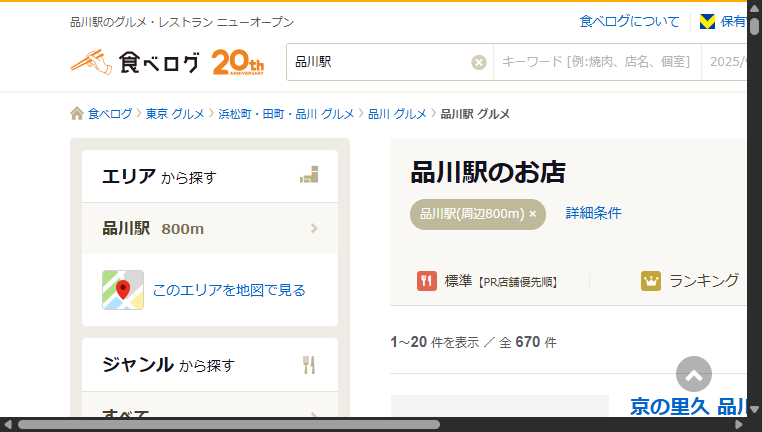
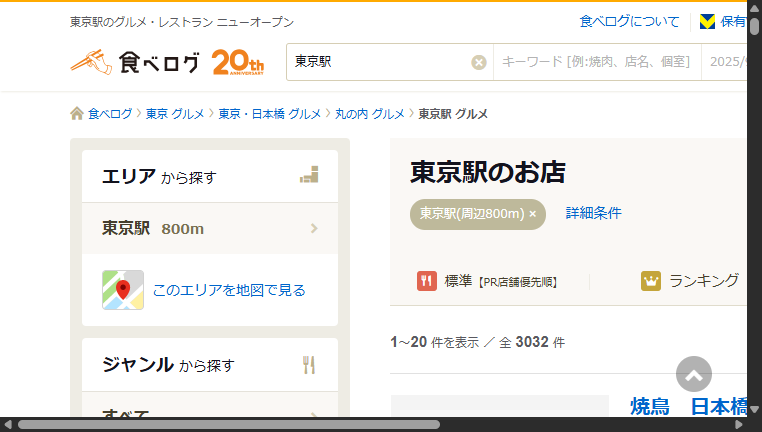
修正

diff --git a/tabelog/management/commands/scraping.py b/tabelog/management/commands/scraping.py
@@ -3,17 +3,16 @@ from selenium.webdriver.support.ui import WebDriverWait
 from selenium.webdriver.support import expected_conditions as EC
 from selenium import webdriver
 from selenium.webdriver.common.by import By
-#from getpass import getpass
-#from bs4 import BeautifulSoup
 import time
 import re
 from tabelog.models import Restaurant
-from datetime import datetime #日付上限を設定して新規店舗を抽出
+from datetime import datetime, timedelta #日付上限を設定して新規店舗を抽出
 
 class Command(BaseCommand):
     help = "食べログスクレイピング処理"
-    
-    def handle(self, *args, **options):
+
+
+    def get_new_shop_data(self, station_name):
         print("スクレイピング処理")
 
         # ヘッドレスモードで起動するためのオプションを設定
@@ -32,8 +31,9 @@ class Command(BaseCommand):
         # 最大30秒間、トップページが表示されるのを待つ
         wait = WebDriverWait(chrome_driver, 30)
 
-        # エリアを指定して入力する　※同じ駅名の場合どうすればよいか
-        station_name = input('駅名を入力してください：')
+        
+        # エリアを指定して入力する
+        # station_name = input('駅名を入力してください：')
         pernet_element = chrome_driver.find_element(By.CSS_SELECTOR, '#react-search-header > form > div.sc-fHSyak.sc-dubCtV.ljbUvS.hhzuBp')
         station_input = pernet_element.find_element(By.CLASS_NAME, 'sc-uhnfH.hGDSLA')
         station_input.send_keys(station_name)
@@ -56,12 +56,13 @@ class Command(BaseCommand):
         time.sleep(10)
         chrome_driver.save_screenshot('screenshot.png')
         
-        # 店舗リストを取得（上限日を指定）
-        restaurants = chrome_driver.find_elements(By.CSS_SELECTOR, 'div.list-rst__contents')
-        limit_date = datetime(2025, 9, 1)
-        
+
         while True:
         
+            # 店舗リストを取得（上限日を指定）
+            restaurants = chrome_driver.find_elements(By.CSS_SELECTOR, 'div.list-rst__contents')
+            limit_date = datetime.now() - timedelta(days=30)
+
             for restaurant in restaurants:
                 try:
                     name = restaurant.find_element(By.CSS_SELECTOR, 'a.list-rst__rst-name-target').text
@@ -85,8 +86,8 @@ class Command(BaseCommand):
                                 "name": name,
                                 "url": url,
                                 "open_date": open_date
-                            }
-                        )
+                                }
+                             )
                         print(f"保存: {station_name} -{name} ({restaurant_id} {url} {open_date})")
                     else:
                         print(f"スキップ: {name} - {open_date}")
@@ -95,16 +96,20 @@ class Command(BaseCommand):
                 except Exception as e:
                     print(f"保存失敗: {e}")
             else:
-                # 次のページボタンを押下
-                page_no += 1
+                # 次のページボタンを押
+                next_button = chrome_driver.find_element(By.CSS_SELECTOR, 'a.c-pagination__arrow--next')
+                next_button.click()
+                time.sleep(10)
                 continue
             
             break   #  whileループを抜ける(途中でスキップした場合)
-
-                
         chrome_driver.quit()
         print("スクレイピング処理終了")
-        
-        #ニューオープンが指定日付だけでなければ、次のページへ遷移する
-        #ニューオープンの日付を今日の日付から30日前移行の日付にする
-        #次のページに押下するのところで、何ページ目のボタンを押下するかを記述する、ページナンバー
+
+    def handle(self, *args, **options):
+        stations = [
+            "東京駅", "品川駅"
+        ]
+        # stations = データベースのマスター情報から取得する
+        for station in stations:
+            self.get_new_shop_data(station)
